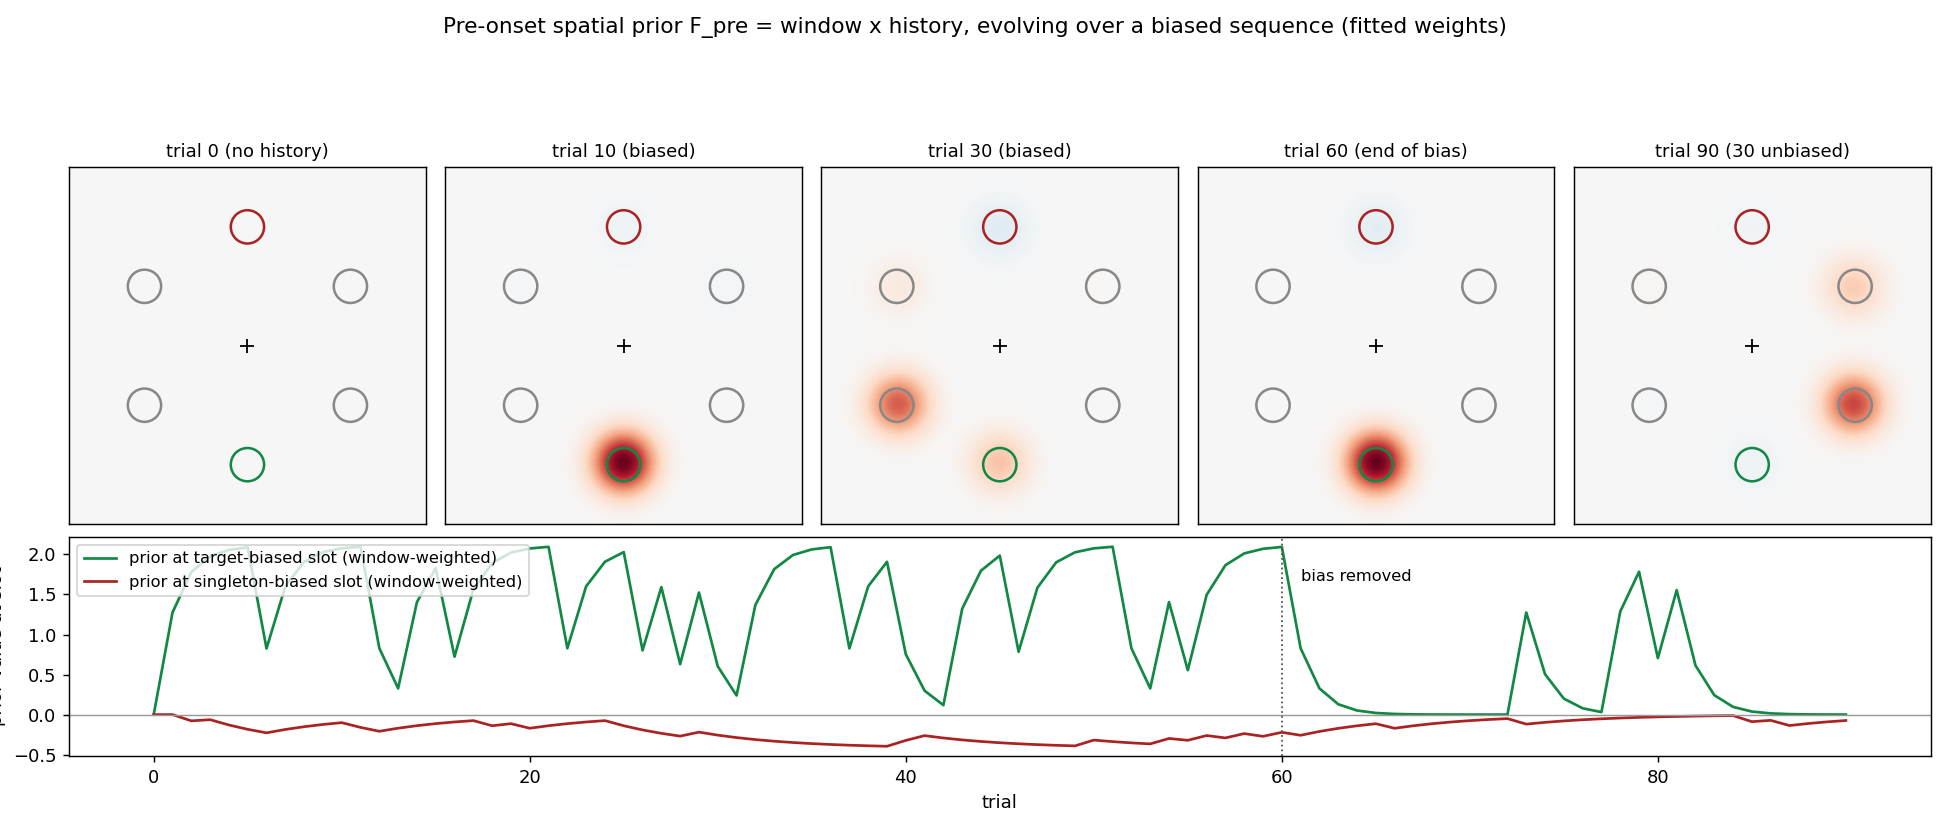
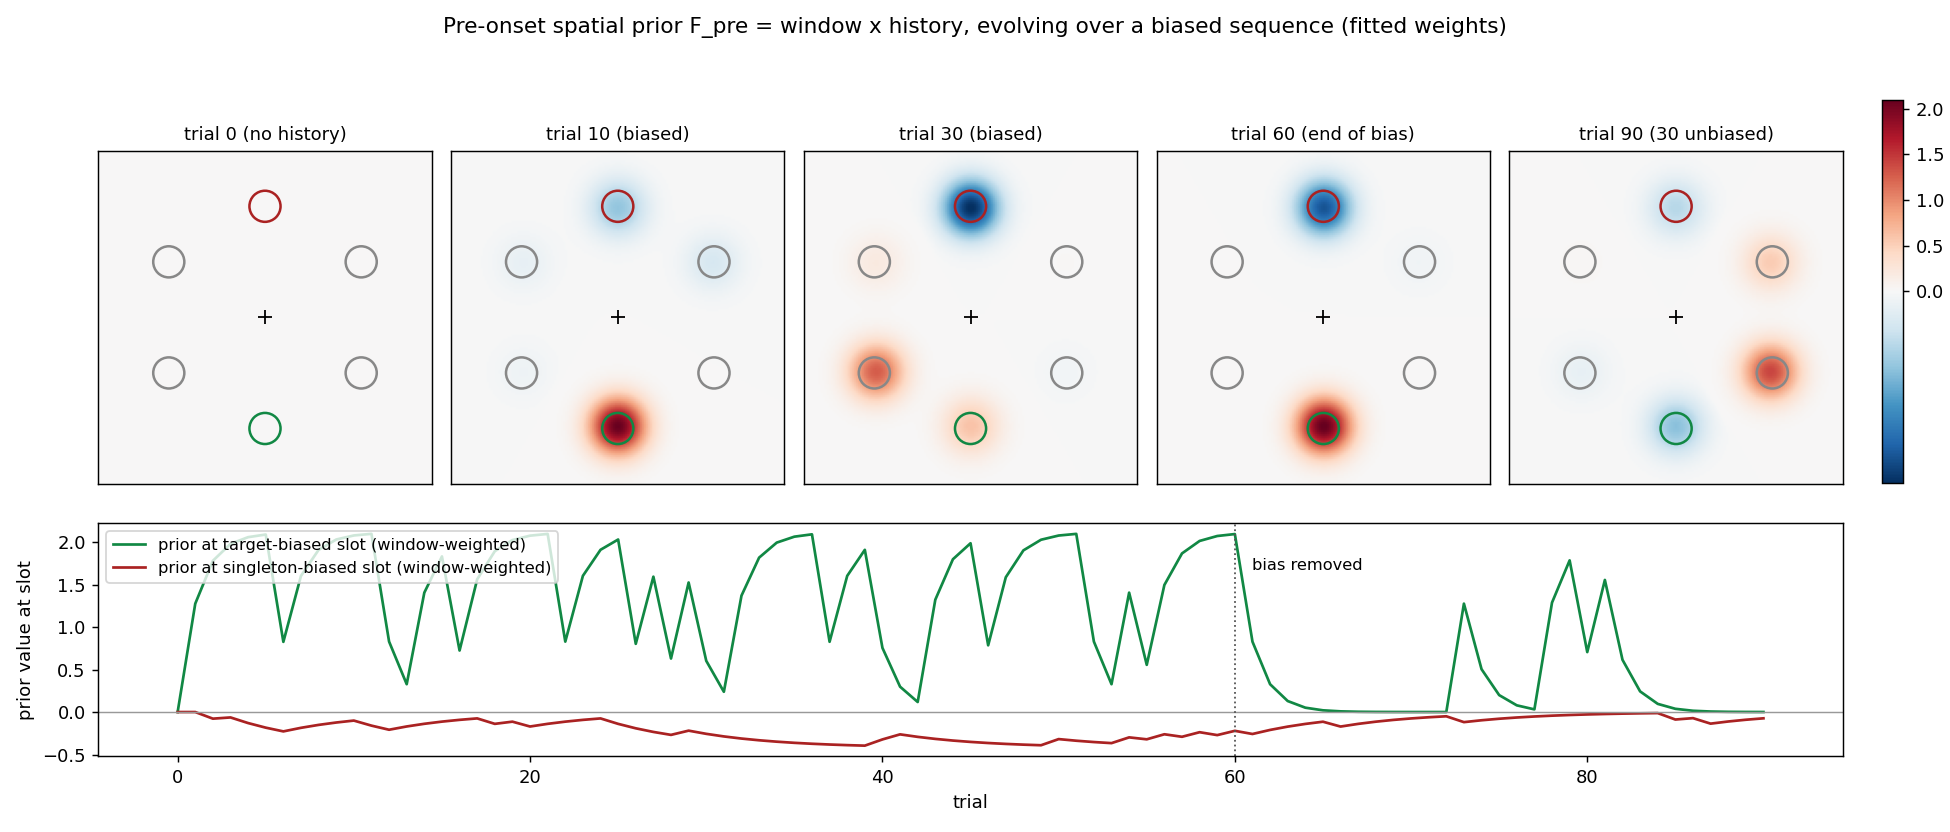
Make suppression visible in the prior figure: two-slope color norm
A symmetric scale hid the shallow suppressive prior (~-0.3) under
the ~7x larger target bump; enhancement and suppression now each use
their full half of the diverging colormap, with a labeled colorbar.

diff --git a/Visual-Search/render_prior_evolution.py b/Visual-Search/render_prior_evolution.py
@@ -77,15 +77,23 @@ def main():
             eD[sing] = 1.0
         hD = (1 - ETA_D) * hD + ETA_D * eD
 
-    vmax = max(abs(snaps[k]).max() for k in snaps)
+    vmax = max(snaps[k].max() for k in snaps)
+    vmin = min(snaps[k].min() for k in snaps)
+    # two-slope norm: enhancement and suppression each use their full
+    # half of the colormap (a symmetric scale hides the shallow
+    # suppression under the ~7x larger target bump)
+    from matplotlib.colors import TwoSlopeNorm
+    norm = TwoSlopeNorm(vcenter=0.0, vmin=min(vmin, -1e-6),
+                        vmax=max(vmax, 1e-6))
     fig = plt.figure(figsize=(15, 6.4))
     gs = fig.add_gridspec(2, 5, height_ratios=[2.2, 1])
     titles = ["trial 0 (no history)", "trial 10 (biased)", "trial 30 (biased)",
               "trial 60 (end of bias)", "trial 90 (30 unbiased)"]
     for i, t in enumerate(snap_at):
         ax = fig.add_subplot(gs[0, i])
-        ax.imshow(snaps[t], origin="lower", extent=[-.75, .75, -.75, .75],
-                  cmap="RdBu_r", vmin=-vmax, vmax=vmax)
+        im = ax.imshow(snaps[t], origin="lower",
+                       extent=[-.75, .75, -.75, .75],
+                       cmap="RdBu_r", norm=norm)
         for j, (x, y) in enumerate(POS):
             ec = ("#118844" if j == T_LOC else
                   "#aa2222" if j == S_LOC else "#888888")
@@ -104,9 +112,13 @@ def main():
     axc.set_xlabel("trial")
     axc.set_ylabel("prior value at slot")
     axc.legend(fontsize=9, loc="upper left")
+    plt.tight_layout(rect=[0.015, 0, 0.955, 0.95])
+    cax = fig.add_axes([0.965, 0.42, 0.011, 0.46])
+    cb = fig.colorbar(im, cax=cax)
+    cb.set_label("prior (red = enhance, blue = suppress;\n"
+                 "halves scaled separately)", fontsize=8)
     fig.suptitle("Pre-onset spatial prior F_pre = window x history, evolving "
                  "over a biased sequence (fitted weights)", fontsize=12)
-    plt.tight_layout(rect=[0, 0, 1, 0.95])
     import os
     os.makedirs("figures", exist_ok=True)
     plt.savefig("figures/prior_evolution.png", dpi=130)
